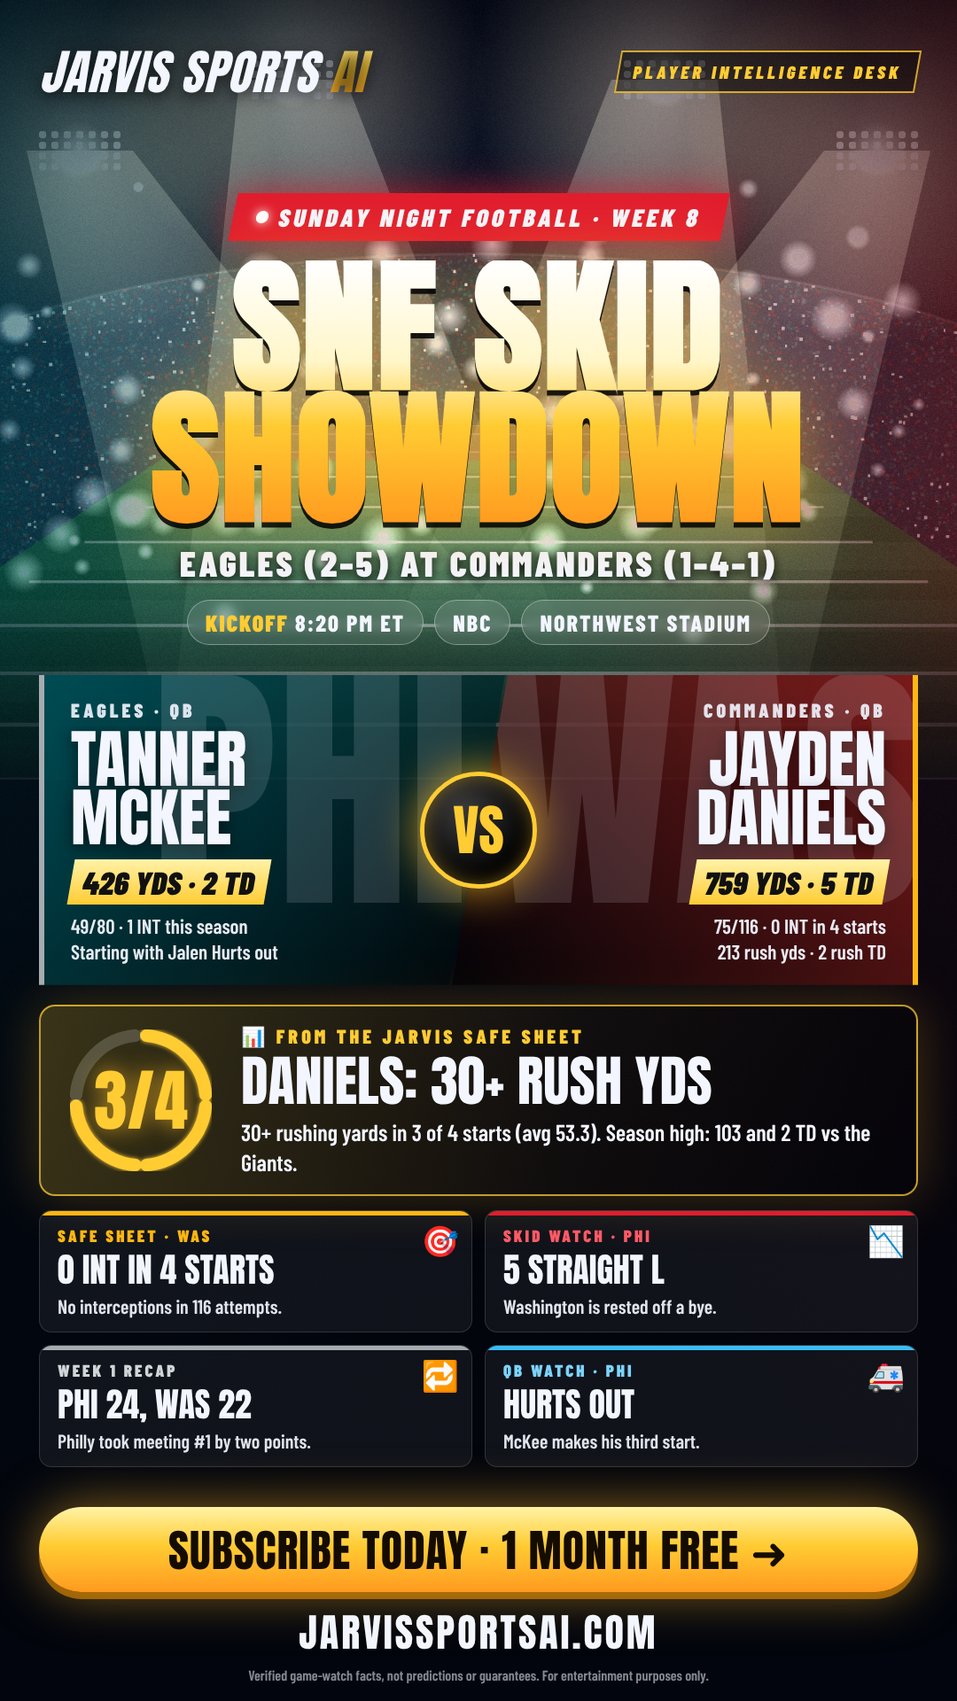
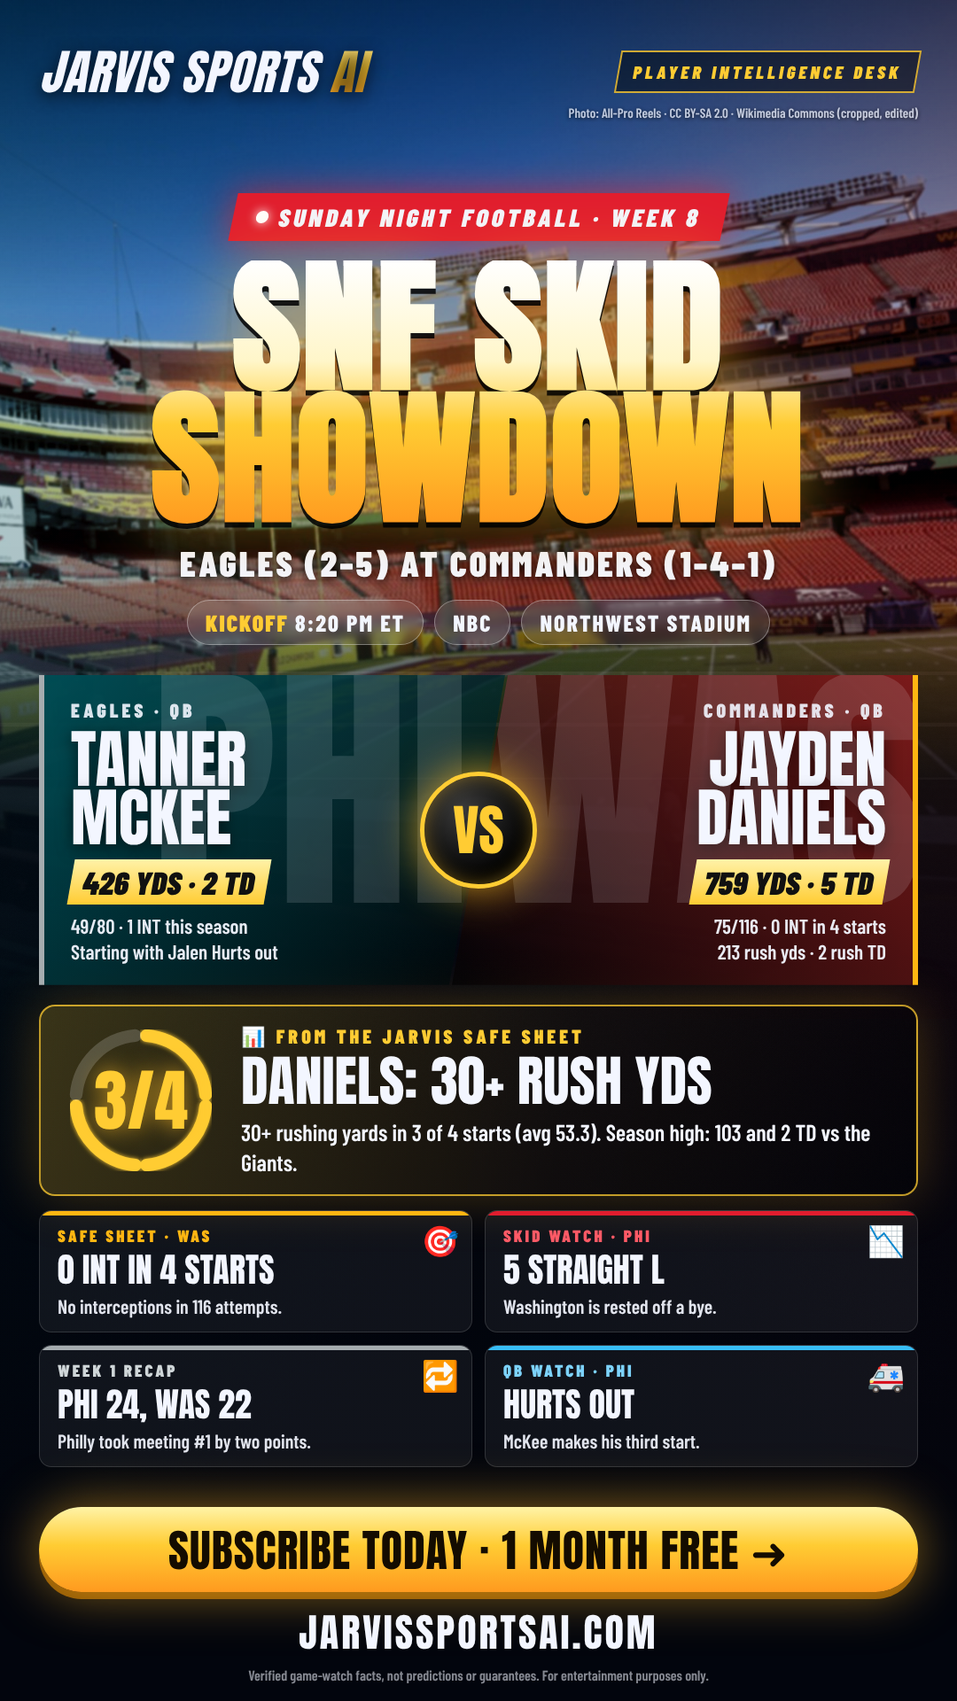
v2 template: real venue photo hero; add Northwest Stadium photo (CC BY-SA 2.0); SNF card v3
Claude-Session: https://claude.ai/code/session_01RFcYixH4LJ5qFyVnUFsWuB

Changed region(s): [[0.0, 0.0, 1.0, 0.4375]]

diff --git a/cards/2026-11-01/nfl-phi-was-v3.html b/cards/2026-11-01/nfl-phi-was-v3.html
@@ -1,0 +1,224 @@
+<!doctype html>
+<html><head><meta charset="utf-8">
+<!--
+  JARVIS card v2 — cinematic stadium layout.
+  Edit ONLY the CONFIG object below (and the text in the HTML). Sport: "football" | "baseball" | "basketball" | "hockey".
+  Optional real venue photo: set CONFIG.venuePhoto to a relative path in assets/venues (freely licensed only) + CONFIG.photoCredit.
+-->
+<style>
+@font-face{font-family:Anton;src:url(../../node_modules/@fontsource/anton/files/anton-latin-400-normal.woff2)}
+@font-face{font-family:BC;font-weight:600;src:url(../../node_modules/@fontsource/barlow-condensed/files/barlow-condensed-latin-600-normal.woff2)}
+@font-face{font-family:BC;font-weight:800;src:url(../../node_modules/@fontsource/barlow-condensed/files/barlow-condensed-latin-800-normal.woff2)}
+@font-face{font-family:BC;font-weight:900;src:url(../../node_modules/@fontsource/barlow-condensed/files/barlow-condensed-latin-900-normal.woff2)}
+:root{--a:#004C54;--a2:#A5ACAF;--b:#7a1a1a;--b2:#FFB612;--gold:#ffcc33;--gold2:#ff9a1f;--txt:#f3f6ff}
+*{margin:0;padding:0;box-sizing:border-box}
+body{width:1080px;height:1920px;overflow:hidden;background:#02050d;color:var(--txt);font-family:BC,sans-serif;position:relative}
+#bg,#photo{position:absolute;inset:0;width:1080px;height:1920px}
+#photo{height:1150px;object-fit:cover;object-position:center 55%;display:none;filter:saturate(1.15) contrast(1.08) brightness(.82);-webkit-mask-image:linear-gradient(180deg,#000 0%,#000 55%,transparent 100%);mask-image:linear-gradient(180deg,#000 0%,#000 55%,transparent 100%)}
+.grade{position:absolute;inset:0;height:1150px;display:none;background:linear-gradient(90deg,var(--a) 0%,transparent 45%,transparent 55%,var(--b) 100%);opacity:.35;mix-blend-mode:color}
+.shade{position:absolute;inset:0;background:
+  linear-gradient(180deg,rgba(2,5,13,.55) 0%,rgba(2,5,13,.05) 18%,rgba(2,5,13,.10) 34%,rgba(2,5,13,.78) 46%,rgba(2,5,13,.93) 70%,#02050d 100%)}
+.wrap{position:absolute;inset:0;padding:0 44px}
+.top{display:flex;justify-content:space-between;align-items:center;padding-top:40px}
+.logo{font-family:Anton;font-size:54px;font-style:italic;letter-spacing:1px;text-shadow:0 4px 18px rgba(0,0,0,.7)}
+.logo span{padding-right:14px;background:linear-gradient(180deg,#fff2a8,var(--gold) 45%,var(--gold2));-webkit-background-clip:text;color:transparent}
+.desk{font-weight:900;font-size:20px;letter-spacing:4px;padding:10px 16px;border:2px solid rgba(255,204,51,.8);color:var(--gold);background:rgba(0,0,0,.45);transform:skewX(-10deg)}
+.hero{margin-top:96px;text-align:center}
+.live{display:inline-flex;align-items:center;gap:12px;background:#e11d2e;padding:10px 26px;font-weight:900;font-size:28px;letter-spacing:4px;transform:skewX(-12deg);box-shadow:0 0 40px rgba(225,29,46,.7)}
+.live i{width:14px;height:14px;border-radius:50%;background:#fff;box-shadow:0 0 12px #fff}
+h1{font-family:Anton;font-size:166px;line-height:.9;margin-top:22px;letter-spacing:2px;text-transform:uppercase;
+  background:linear-gradient(180deg,#ffffff 0%,#fff6c9 38%,var(--gold) 62%,var(--gold2) 100%);-webkit-background-clip:text;color:transparent;
+  filter:drop-shadow(0 6px 0 rgba(0,0,0,.85)) drop-shadow(0 0 38px rgba(255,180,40,.55))}
+.match{margin-top:18px;font-weight:900;font-size:40px;letter-spacing:3px;text-shadow:0 3px 12px #000}
+.pills{margin-top:18px;display:flex;justify-content:center;gap:12px}
+.pills span{background:rgba(255,255,255,.1);border:1px solid rgba(255,255,255,.35);backdrop-filter:blur(6px);padding:9px 20px;font-weight:800;font-size:26px;letter-spacing:2px;border-radius:40px}
+.pills b{color:var(--gold)}
+.vs{position:relative;margin-top:34px;height:350px;display:flex;gap:0}
+.p{position:relative;flex:1;overflow:hidden;padding:26px 30px}
+.p.l{background:linear-gradient(135deg,var(--a) 0%,rgba(0,0,0,.6) 100%);clip-path:polygon(0 0,100% 0,88% 100%,0 100%);border-left:6px solid var(--a2)}
+.p.r{background:linear-gradient(225deg,var(--b) 0%,rgba(0,0,0,.6) 100%);clip-path:polygon(12% 0,100% 0,100% 100%,0 100%);text-align:right;border-right:6px solid var(--b2);margin-left:-60px}
+.ghost{position:absolute;font-family:Anton;font-size:300px;line-height:1;opacity:.13;top:-20px}
+.p.l .ghost{right:40px}.p.r .ghost{left:40px}
+.tag{font-weight:900;font-size:22px;letter-spacing:4px;opacity:.9}
+.nm{font-family:Anton;font-size:72px;line-height:.92;margin:10px 0 14px;text-shadow:0 4px 18px rgba(0,0,0,.6)}
+.big{display:inline-block;font-weight:900;font-size:36px;color:#111;background:linear-gradient(180deg,#fff2a8,var(--gold));padding:4px 14px;transform:skewX(-10deg)}
+.sm{font-weight:600;font-size:23px;margin-top:10px;line-height:1.25;opacity:.95}
+.vsb{position:absolute;left:50%;top:50%;transform:translate(-50%,-50%);width:132px;height:132px;border-radius:50%;
+  background:radial-gradient(circle at 35% 30%,#3a3a3a,#000 70%);border:5px solid var(--gold);display:grid;place-items:center;
+  font-family:Anton;font-size:62px;color:var(--gold);box-shadow:0 0 50px rgba(255,190,40,.8),inset 0 0 20px rgba(255,200,60,.4);z-index:3}
+.nug{margin-top:22px;display:flex;align-items:center;gap:28px;padding:20px 28px;border-radius:18px;
+  background:linear-gradient(100deg,rgba(255,204,51,.22),rgba(255,154,31,.06) 60%,rgba(0,0,0,.2));border:2px solid rgba(255,204,51,.75);box-shadow:0 0 60px rgba(255,180,40,.25)}
+.ring{position:relative;width:170px;height:170px;flex:none}
+.ring svg{position:absolute;inset:0}
+.ring .n{position:absolute;inset:0;display:grid;place-items:center;font-family:Anton;font-size:76px;color:var(--gold);text-shadow:0 0 24px rgba(255,190,40,.7)}
+.nt{font-weight:900;font-size:22px;letter-spacing:4px;color:var(--gold)}
+.nh{font-family:Anton;font-size:62px;line-height:1;margin:6px 0 10px}
+.nx{font-weight:600;font-size:26px;line-height:1.3}
+.grid{margin-top:16px;display:grid;grid-template-columns:1fr 1fr;gap:14px}
+.c{position:relative;padding:16px 20px 14px;border-radius:14px;background:rgba(255,255,255,.06);border:1px solid rgba(255,255,255,.14);overflow:hidden}
+.c:before{content:"";position:absolute;left:0;top:0;right:0;height:5px;background:var(--acc,var(--gold))}
+.c .t{font-weight:900;font-size:19px;letter-spacing:3px;color:var(--acc2,var(--gold))}
+.c .h{font-family:Anton;font-size:38px;line-height:1;margin:8px 0}
+.c .d{font-weight:600;font-size:22px;line-height:1.3;opacity:.92}
+.c .e{position:absolute;right:14px;top:12px;font-size:34px}
+.way{display:none;margin-top:18px;font-weight:600;font-size:19px;line-height:1.35;opacity:.75;text-align:center}
+.foot{position:absolute;left:0;right:0;bottom:0;padding:18px 44px 20px;text-align:center;background:linear-gradient(180deg,rgba(2,5,13,0),#02050d 30%)}
+.cta{display:flex;align-items:center;justify-content:center;gap:16px;height:96px;border-radius:60px;
+  background:linear-gradient(180deg,#fff3a6,var(--gold) 45%,var(--gold2));color:#140c00;font-family:Anton;font-size:50px;letter-spacing:1px;
+  box-shadow:0 0 60px rgba(255,180,40,.55),0 8px 0 #8a5300}
+.url{margin-top:12px;font-family:Anton;font-size:44px;letter-spacing:3px}
+.fine{margin-top:6px;font-weight:600;font-size:16px;opacity:.55}
+.credit{position:absolute;right:44px;top:118px;font-weight:600;font-size:15px;opacity:.75;display:none;text-shadow:0 1px 4px #000}
+</style></head><body>
+<canvas id="bg" width="1080" height="1920"></canvas>
+<img id="photo" alt=""><div class="grade" id="grade"></div>
+<div class="shade"></div>
+
+<div class="wrap">
+  <div class="top"><div class="logo">JARVIS SPORTS <span>AI</span></div><div class="desk">PLAYER INTELLIGENCE DESK</div></div>
+
+  <div class="hero">
+    <div class="live"><i></i>SUNDAY NIGHT FOOTBALL · WEEK 8</div>
+    <h1>SNF SKID<br>SHOWDOWN</h1>
+    <div class="match">EAGLES (2–5) AT COMMANDERS (1–4–1)</div>
+    <div class="pills"><span><b>KICKOFF</b> 8:20 PM ET</span><span>NBC</span><span>NORTHWEST STADIUM</span></div>
+  </div>
+
+  <div class="vs">
+    <div class="p l"><div class="ghost">PHI</div>
+      <div class="tag">EAGLES · QB</div>
+      <div class="nm">TANNER<br>MCKEE</div>
+      <div class="big">426 YDS · 2 TD</div>
+      <div class="sm">49/80 · 1 INT this season<br>Starting with Jalen Hurts out</div>
+    </div>
+    <div class="vsb">VS</div>
+    <div class="p r"><div class="ghost">WAS</div>
+      <div class="tag">COMMANDERS · QB</div>
+      <div class="nm">JAYDEN<br>DANIELS</div>
+      <div class="big">759 YDS · 5 TD</div>
+      <div class="sm">75/116 · 0 INT in 4 starts<br>213 rush yds · 2 rush TD</div>
+    </div>
+  </div>
+
+  <div class="nug">
+    <div class="ring" data-hit="3" data-total="4"><svg viewBox="0 0 190 190"></svg><div class="n">3/4</div></div>
+    <div>
+      <div class="nt">📊 FROM THE JARVIS SAFE SHEET</div>
+      <div class="nh">DANIELS: 30+ RUSH YDS</div>
+      <div class="nx">30+ rushing yards in 3 of 4 starts (avg 53.3). Season high: 103 and 2 TD vs the Giants.</div>
+    </div>
+  </div>
+
+  <div class="grid">
+    <div class="c" style="--acc:var(--b2);--acc2:var(--b2)"><div class="e">🎯</div><div class="t">SAFE SHEET · WAS</div><div class="h">0 INT IN 4 STARTS</div><div class="d">No interceptions in 116 attempts.</div></div>
+    <div class="c" style="--acc:#e11d2e;--acc2:#ff5a66"><div class="e">📉</div><div class="t">SKID WATCH · PHI</div><div class="h">5 STRAIGHT L</div><div class="d">Washington is rested off a bye.</div></div>
+    <div class="c" style="--acc:var(--a2);--acc2:#cfd6d8"><div class="e">🔁</div><div class="t">WEEK 1 RECAP</div><div class="h">PHI 24, WAS 22</div><div class="d">Philly took meeting #1 by two points.</div></div>
+    <div class="c" style="--acc:#38bdf8;--acc2:#7dd3fc"><div class="e">🚑</div><div class="t">QB WATCH · PHI</div><div class="h">HURTS OUT</div><div class="d">McKee makes his third start.</div></div>
+  </div>
+
+  <div class="way"><b style="color:var(--gold)">THE JARVIS WAY:</b> Verified game-watch facts — not predictions or guarantees. The full Safe Sheet is for members.</div>
+</div>
+
+<div class="credit" id="credit"></div>
+<div class="foot">
+  <div class="cta">SUBSCRIBE TODAY · 1 MONTH FREE ➜</div>
+  <div class="url">JARVISSPORTSAI.COM</div>
+  <div class="fine">Verified game-watch facts, not predictions or guarantees. For entertainment purposes only.</div>
+</div>
+
+<script>
+const CONFIG = {
+  sport: "football",                 // football | baseball | basketball | hockey
+  colorA: "#004C54", colorA2: "#A5ACAF",   // away team primary / accent
+  colorB: "#7a1a1a", colorB2: "#FFB612",   // home team primary / accent
+  venuePhoto: "../../assets/venues/northwest-stadium.jpg",                    // e.g. "../../assets/venues/northwest-stadium.jpg" (freely licensed only)
+  photoCredit: "Photo: All-Pro Reels · CC BY-SA 2.0 · Wikimedia Commons (cropped, edited)",                   // e.g. "Photo: Jane Doe · CC BY-SA 4.0 · Wikimedia Commons"
+  seed: 7
+};
+const R=document.documentElement.style;
+R.setProperty('--a',CONFIG.colorA);R.setProperty('--a2',CONFIG.colorA2);R.setProperty('--b',CONFIG.colorB);R.setProperty('--b2',CONFIG.colorB2);
+
+// progress ring for the nugget
+document.querySelectorAll('.ring').forEach(r=>{
+  const hit=+r.dataset.hit,tot=+r.dataset.total,svg=r.querySelector('svg');let s='';
+  const gap=10,seg=360/tot;
+  for(let i=0;i<tot;i++){const a0=(i*seg+gap/2-90)*Math.PI/180,a1=((i+1)*seg-gap/2-90)*Math.PI/180,rr=82;
+    const x0=95+rr*Math.cos(a0),y0=95+rr*Math.sin(a0),x1=95+rr*Math.cos(a1),y1=95+rr*Math.sin(a1);
+    const on=i<hit;s+=`<path d="M${x0} ${y0} A${rr} ${rr} 0 0 1 ${x1} ${y1}" stroke="${on?'#ffcc33':'rgba(255,255,255,.18)'}" stroke-width="16" fill="none" stroke-linecap="round" ${on?'filter="url(#g)"':''}/>`;}
+  svg.innerHTML=`<defs><filter id="g"><feGaussianBlur stdDeviation="3" result="b"/><feMerge><feMergeNode in="b"/><feMergeNode in="SourceGraphic"/></feMerge></filter></defs>`+s;
+});
+
+drawStadium();
+if(CONFIG.venuePhoto){const im=document.getElementById('photo');im.src=CONFIG.venuePhoto;im.style.display='block';document.getElementById('grade').style.display='block';
+  const c=document.getElementById('credit');c.textContent=CONFIG.photoCredit;c.style.display='block';}
+
+function drawStadium(){
+  const cv=document.getElementById('bg'),x=cv.getContext('2d'),W=1080,H=1920;
+  let sd=CONFIG.seed;const rnd=()=>((sd=(sd*16807)%2147483647)/2147483647);
+  // sky
+  let g=x.createLinearGradient(0,0,0,H);g.addColorStop(0,'#050a1c');g.addColorStop(.35,'#0b1530');g.addColorStop(.6,'#050811');g.addColorStop(1,'#02040a');
+  x.fillStyle=g;x.fillRect(0,0,W,H);
+  const cx=W/2, horizon=330;
+  // stadium bowl tiers (crowd)
+  const tiers=[[1500,520,380,'#0d1426'],[1320,450,300,'#111a30'],[1160,390,235,'#141f38']];
+  tiers.forEach(([rw,rh,yo,col],ti)=>{
+    x.save();x.beginPath();x.ellipse(cx,horizon+yo,rw/1.5,rh/1.4,0,Math.PI,2*Math.PI);x.fillStyle=col;x.fill();x.clip();
+    for(let i=0;i<9000;i++){const px=rnd()*W,py=horizon+yo-rh/1.4+rnd()*rh/1.4;
+      const t=rnd();x.fillStyle=t<.04?'rgba(255,255,255,.95)':t<.5?`hsla(${CONFIG.sport==='football'?200:210},20%,${18+rnd()*30}%,.9)`:(t<.75?CONFIG.colorA:CONFIG.colorB);
+      x.globalAlpha=t<.04?1:.55;x.fillRect(px,py,2+rnd()*2,2+rnd()*2);}
+    x.restore();
+    // tier rim
+    x.globalAlpha=1;x.strokeStyle='rgba(255,255,255,.12)';x.lineWidth=3;x.beginPath();x.ellipse(cx,horizon+yo,rw/1.5,rh/1.4,0,Math.PI,2*Math.PI);x.stroke();
+  });
+  x.globalAlpha=1;
+  // field in perspective
+  const fy=horizon+150, fb=880;
+  x.save();x.beginPath();x.moveTo(cx-300,fy);x.lineTo(cx+300,fy);x.lineTo(cx+900,fb);x.lineTo(cx-900,fb);x.closePath();
+  g=x.createLinearGradient(0,fy,0,fb);g.addColorStop(0,'#145c2a');g.addColorStop(1,'#0a3a1a');x.fillStyle=g;x.fill();x.clip();
+  const lerp=(a,b,t)=>a+(b-a)*t;
+  if(CONFIG.sport==='football'||CONFIG.sport==='baseball'){
+    for(let i=0;i<14;i++){const t0=Math.pow(i/14,1.6),t1=Math.pow((i+1)/14,1.6);x.fillStyle=i%2?'rgba(255,255,255,.04)':'rgba(0,0,0,.06)';
+      const y0=lerp(fy,fb,t0),y1=lerp(fy,fb,t1),w0=lerp(300,900,t0),w1=lerp(300,900,t1);
+      x.beginPath();x.moveTo(cx-w0,y0);x.lineTo(cx+w0,y0);x.lineTo(cx+w1,y1);x.lineTo(cx-w1,y1);x.fill();}
+  }
+  if(CONFIG.sport==='football'){
+    x.strokeStyle='rgba(255,255,255,.55)';
+    for(let i=0;i<=10;i++){const t=Math.pow(i/10,1.6),y=lerp(fy,fb,t),w=lerp(260,820,t);x.lineWidth=lerp(1.5,5,t);x.beginPath();x.moveTo(cx-w,y);x.lineTo(cx+w,y);x.stroke();}
+    // end zone tints
+    x.fillStyle=CONFIG.colorB;x.globalAlpha=.55;x.beginPath();x.moveTo(cx-300,fy);x.lineTo(cx+300,fy);x.lineTo(cx+330,fy+40);x.lineTo(cx-330,fy+40);x.fill();x.globalAlpha=1;
+  } else if(CONFIG.sport==='baseball'){
+    x.fillStyle='#8a5a32';x.beginPath();x.moveTo(cx,fy+120);x.lineTo(cx+230,fy+330);x.lineTo(cx,fb-60);x.lineTo(cx-230,fy+330);x.closePath();x.fill();
+    x.fillStyle='#145c2a';x.beginPath();x.moveTo(cx,fy+175);x.lineTo(cx+150,fy+325);x.lineTo(cx,fb-140);x.lineTo(cx-150,fy+325);x.closePath();x.fill();
+    x.fillStyle='#fff';[[cx,fy+120],[cx+230,fy+330],[cx-230,fy+330]].forEach(([a,b])=>x.fillRect(a-8,b-8,16,16));
+  } else {
+    x.fillStyle=CONFIG.sport==='hockey'?'#dfe9f2':'#b98a55';x.fillRect(0,fy,W,fb-fy);
+    x.strokeStyle=CONFIG.sport==='hockey'?'#c8102e':'rgba(255,255,255,.7)';x.lineWidth=5;x.beginPath();x.ellipse(cx,(fy+fb)/2,180,70,0,0,2*Math.PI);x.stroke();
+  }
+  x.restore();
+  // light towers + beams
+  const towers=[[90,170],[330,90],[750,90],[990,170]];
+  x.globalCompositeOperation='lighter';
+  towers.forEach(([tx,ty])=>{
+    // beam
+    g=x.createLinearGradient(tx,ty,cx,fy+300);g.addColorStop(0,'rgba(255,248,220,.35)');g.addColorStop(1,'rgba(255,248,220,0)');
+    x.fillStyle=g;x.beginPath();x.moveTo(tx-60,ty);x.lineTo(tx+60,ty);x.lineTo(cx+(tx<cx?150:350),fy+380);x.lineTo(cx-(tx<cx?350:150),fy+380);x.closePath();x.fill();
+    // glow
+    let rg=x.createRadialGradient(tx,ty,0,tx,ty,220);rg.addColorStop(0,'rgba(255,255,240,.95)');rg.addColorStop(.15,'rgba(255,240,200,.55)');rg.addColorStop(1,'rgba(255,220,150,0)');
+    x.fillStyle=rg;x.fillRect(tx-220,ty-220,440,440);
+    // bulbs
+    for(let r=0;r<4;r++)for(let c=0;c<7;c++){x.fillStyle='rgba(255,255,255,1)';x.beginPath();x.arc(tx-42+c*14,ty-18+r*12,4,0,7);x.fill();}
+  });
+  // camera flashes
+  for(let i=0;i<70;i++){const px=rnd()*W,py=horizon-120+rnd()*520,rr=6+rnd()*22;
+    let rg=x.createRadialGradient(px,py,0,px,py,rr);rg.addColorStop(0,'rgba(255,255,255,.9)');rg.addColorStop(1,'rgba(255,255,255,0)');x.fillStyle=rg;x.fillRect(px-rr,py-rr,rr*2,rr*2);}
+  x.globalCompositeOperation='source-over';
+  // haze + team color washes
+  g=x.createRadialGradient(cx,fy+150,50,cx,fy+150,700);g.addColorStop(0,'rgba(200,220,255,.18)');g.addColorStop(1,'rgba(200,220,255,0)');x.fillStyle=g;x.fillRect(0,0,W,H);
+  g=x.createLinearGradient(0,0,W,0);g.addColorStop(0,hexA(CONFIG.colorA,.55));g.addColorStop(.42,hexA(CONFIG.colorA,0));g.addColorStop(.58,hexA(CONFIG.colorB,0));g.addColorStop(1,hexA(CONFIG.colorB,.55));
+  x.fillStyle=g;x.fillRect(0,0,W,H);
+  // film grain
+  const id=x.getImageData(0,0,W,H),d=id.data;for(let i=0;i<d.length;i+=4){const n=(rnd()-.5)*14;d[i]+=n;d[i+1]+=n;d[i+2]+=n;}x.putImageData(id,0,0);
+}
+function hexA(h,a){h=h.replace('#','');const n=parseInt(h,16);return `rgba(${n>>16&255},${n>>8&255},${n&255},${a})`}
+</script>
+</body></html>

diff --git a/cards/2026-11-01/nfl-phi-was-v2.html b/cards/2026-11-01/nfl-phi-was-v2.html
@@ -14,7 +14,8 @@
 *{margin:0;padding:0;box-sizing:border-box}
 body{width:1080px;height:1920px;overflow:hidden;background:#02050d;color:var(--txt);font-family:BC,sans-serif;position:relative}
 #bg,#photo{position:absolute;inset:0;width:1080px;height:1920px}
-#photo{object-fit:cover;display:none}
+#photo{height:1150px;object-fit:cover;object-position:center 55%;display:none;filter:saturate(1.15) contrast(1.08) brightness(.82);-webkit-mask-image:linear-gradient(180deg,#000 0%,#000 55%,transparent 100%);mask-image:linear-gradient(180deg,#000 0%,#000 55%,transparent 100%)}
+.grade{position:absolute;inset:0;height:1150px;display:none;background:linear-gradient(90deg,var(--a) 0%,transparent 45%,transparent 55%,var(--b) 100%);opacity:.35;mix-blend-mode:color}
 .shade{position:absolute;inset:0;background:
   linear-gradient(180deg,rgba(2,5,13,.55) 0%,rgba(2,5,13,.05) 18%,rgba(2,5,13,.10) 34%,rgba(2,5,13,.78) 46%,rgba(2,5,13,.93) 70%,#02050d 100%)}
 .wrap{position:absolute;inset:0;padding:0 44px}
@@ -67,10 +68,10 @@ h1{font-family:Anton;font-size:166px;line-height:.9;margin-top:22px;letter-spaci
   box-shadow:0 0 60px rgba(255,180,40,.55),0 8px 0 #8a5300}
 .url{margin-top:12px;font-family:Anton;font-size:44px;letter-spacing:3px}
 .fine{margin-top:6px;font-weight:600;font-size:16px;opacity:.55}
-.credit{position:absolute;right:16px;top:1560px;font-weight:600;font-size:14px;opacity:.6;display:none}
+.credit{position:absolute;right:44px;top:118px;font-weight:600;font-size:15px;opacity:.75;display:none;text-shadow:0 1px 4px #000}
 </style></head><body>
 <canvas id="bg" width="1080" height="1920"></canvas>
-<img id="photo" alt="">
+<img id="photo" alt=""><div class="grade" id="grade"></div>
 <div class="shade"></div>
 
 <div class="wrap">
@@ -130,8 +131,8 @@ const CONFIG = {
   sport: "football",                 // football | baseball | basketball | hockey
   colorA: "#004C54", colorA2: "#A5ACAF",   // away team primary / accent
   colorB: "#7a1a1a", colorB2: "#FFB612",   // home team primary / accent
-  venuePhoto: "",                    // e.g. "../assets/venues/northwest-stadium.jpg" (freely licensed only)
-  photoCredit: "",                   // e.g. "Photo: Jane Doe · CC BY-SA 4.0 · Wikimedia Commons"
+  venuePhoto: "../../assets/venues/northwest-stadium.jpg",                    // e.g. "../../assets/venues/northwest-stadium.jpg" (freely licensed only)
+  photoCredit: "Photo: All-Pro Reels · CC BY-SA 2.0 · Wikimedia Commons (cropped, edited)",                   // e.g. "Photo: Jane Doe · CC BY-SA 4.0 · Wikimedia Commons"
   seed: 7
 };
 const R=document.documentElement.style;
@@ -147,9 +148,9 @@ document.querySelectorAll('.ring').forEach(r=>{
   svg.innerHTML=`<defs><filter id="g"><feGaussianBlur stdDeviation="3" result="b"/><feMerge><feMergeNode in="b"/><feMergeNode in="SourceGraphic"/></feMerge></filter></defs>`+s;
 });
 
-if(CONFIG.venuePhoto){const im=document.getElementById('photo');im.src=CONFIG.venuePhoto;im.style.display='block';
+drawStadium();
+if(CONFIG.venuePhoto){const im=document.getElementById('photo');im.src=CONFIG.venuePhoto;im.style.display='block';document.getElementById('grade').style.display='block';
   const c=document.getElementById('credit');c.textContent=CONFIG.photoCredit;c.style.display='block';}
-else drawStadium();
 
 function drawStadium(){
   const cv=document.getElementById('bg'),x=cv.getContext('2d'),W=1080,H=1920;

diff --git a/templates/card_v2.html b/templates/card_v2.html
@@ -14,7 +14,8 @@
 *{margin:0;padding:0;box-sizing:border-box}
 body{width:1080px;height:1920px;overflow:hidden;background:#02050d;color:var(--txt);font-family:BC,sans-serif;position:relative}
 #bg,#photo{position:absolute;inset:0;width:1080px;height:1920px}
-#photo{object-fit:cover;display:none}
+#photo{height:1150px;object-fit:cover;object-position:center 55%;display:none;filter:saturate(1.15) contrast(1.08) brightness(.82);-webkit-mask-image:linear-gradient(180deg,#000 0%,#000 55%,transparent 100%);mask-image:linear-gradient(180deg,#000 0%,#000 55%,transparent 100%)}
+.grade{position:absolute;inset:0;height:1150px;display:none;background:linear-gradient(90deg,var(--a) 0%,transparent 45%,transparent 55%,var(--b) 100%);opacity:.35;mix-blend-mode:color}
 .shade{position:absolute;inset:0;background:
   linear-gradient(180deg,rgba(2,5,13,.55) 0%,rgba(2,5,13,.05) 18%,rgba(2,5,13,.10) 34%,rgba(2,5,13,.78) 46%,rgba(2,5,13,.93) 70%,#02050d 100%)}
 .wrap{position:absolute;inset:0;padding:0 44px}
@@ -67,10 +68,10 @@ h1{font-family:Anton;font-size:166px;line-height:.9;margin-top:22px;letter-spaci
   box-shadow:0 0 60px rgba(255,180,40,.55),0 8px 0 #8a5300}
 .url{margin-top:12px;font-family:Anton;font-size:44px;letter-spacing:3px}
 .fine{margin-top:6px;font-weight:600;font-size:16px;opacity:.55}
-.credit{position:absolute;right:16px;top:1560px;font-weight:600;font-size:14px;opacity:.6;display:none}
+.credit{position:absolute;right:44px;top:118px;font-weight:600;font-size:15px;opacity:.75;display:none;text-shadow:0 1px 4px #000}
 </style></head><body>
 <canvas id="bg" width="1080" height="1920"></canvas>
-<img id="photo" alt="">
+<img id="photo" alt=""><div class="grade" id="grade"></div>
 <div class="shade"></div>
 
 <div class="wrap">
@@ -130,7 +131,7 @@ const CONFIG = {
   sport: "football",                 // football | baseball | basketball | hockey
   colorA: "#004C54", colorA2: "#A5ACAF",   // away team primary / accent
   colorB: "#7a1a1a", colorB2: "#FFB612",   // home team primary / accent
-  venuePhoto: "",                    // e.g. "../assets/venues/northwest-stadium.jpg" (freely licensed only)
+  venuePhoto: "",                    // e.g. "../../assets/venues/northwest-stadium.jpg" (freely licensed only)
   photoCredit: "",                   // e.g. "Photo: Jane Doe · CC BY-SA 4.0 · Wikimedia Commons"
   seed: 7
 };
@@ -147,9 +148,9 @@ document.querySelectorAll('.ring').forEach(r=>{
   svg.innerHTML=`<defs><filter id="g"><feGaussianBlur stdDeviation="3" result="b"/><feMerge><feMergeNode in="b"/><feMergeNode in="SourceGraphic"/></feMerge></filter></defs>`+s;
 });
 
-if(CONFIG.venuePhoto){const im=document.getElementById('photo');im.src=CONFIG.venuePhoto;im.style.display='block';
+drawStadium();
+if(CONFIG.venuePhoto){const im=document.getElementById('photo');im.src=CONFIG.venuePhoto;im.style.display='block';document.getElementById('grade').style.display='block';
   const c=document.getElementById('credit');c.textContent=CONFIG.photoCredit;c.style.display='block';}
-else drawStadium();
 
 function drawStadium(){
   const cv=document.getElementById('bg'),x=cv.getContext('2d'),W=1080,H=1920;
